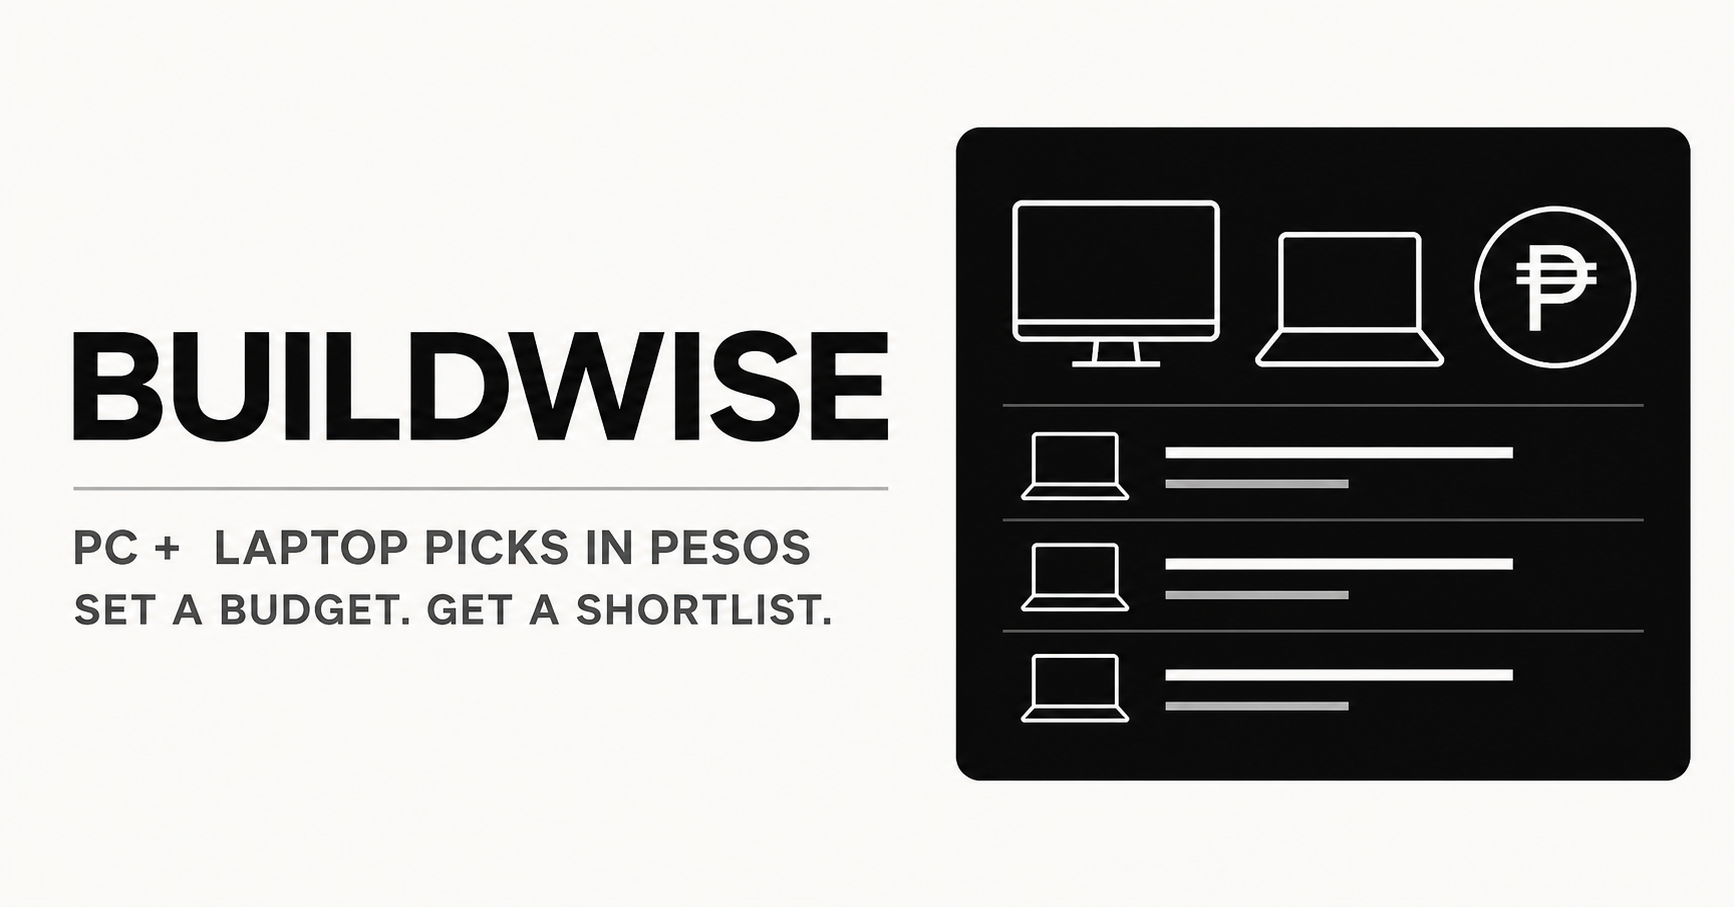
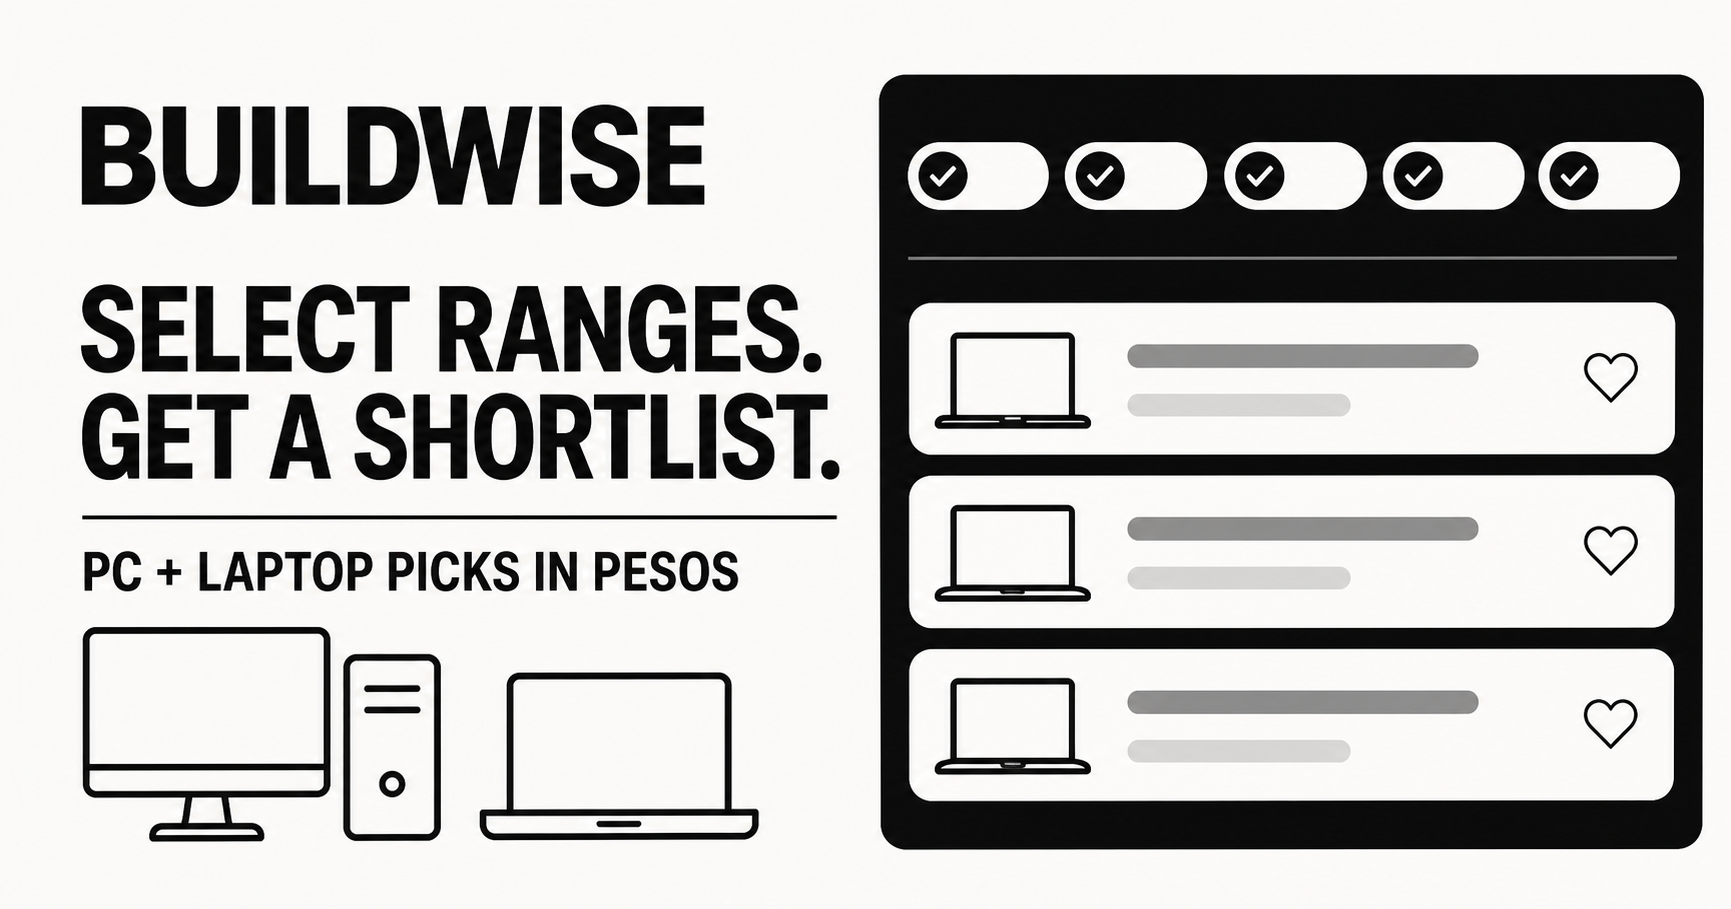
Improve typography and add budget range multi-select

diff --git a/app/globals.css b/app/globals.css
@@ -12,68 +12,74 @@ button { cursor:pointer; }
 .header { height:64px; padding:0 28px; border-bottom:1px solid var(--line); display:grid; grid-template-columns:1fr auto 1fr; align-items:center; }
 .brand { display:flex; align-items:center; gap:10px; }
 .brand>span { width:30px; height:30px; display:grid; place-items:center; background:var(--ink); color:var(--inverse); border-radius:7px; font-size:13px; font-weight:800; }
-.brand strong { font-size:12px; letter-spacing:.12em; }
-.header>p { margin:0; color:var(--muted); font-size:10px; }
-.theme { justify-self:end; height:38px; padding:0 9px 0 11px; border:1px solid var(--line); background:var(--panel); color:var(--ink); border-radius:9px; display:flex; align-items:center; gap:8px; font-size:10px; }
+.brand strong { font-size:14px; letter-spacing:.11em; }
+.header>p { margin:0; color:var(--muted); font-size:12px; }
+.theme { justify-self:end; height:40px; padding:0 10px 0 12px; border:1px solid var(--line); background:var(--panel); color:var(--ink); border-radius:9px; display:flex; align-items:center; gap:8px; font-size:12px; }
 .theme i { width:29px; height:16px; padding:2px; background:var(--soft); border-radius:10px; display:block; }
 .theme i b { width:12px; height:12px; background:var(--muted); border-radius:50%; display:block; transition:transform .2s; }
 .theme i.on b { transform:translateX(13px); background:var(--ink); }
 
-.layout { height:calc(100dvh - 64px); display:grid; grid-template-columns:320px minmax(0,1fr); }
-.sidebar { border-right:1px solid var(--line); padding:22px; display:flex; flex-direction:column; gap:14px; min-height:0; }
+.layout { height:calc(100dvh - 64px); display:grid; grid-template-columns:350px minmax(0,1fr); }
+.sidebar { border-right:1px solid var(--line); padding:18px 22px; display:flex; flex-direction:column; gap:10px; min-height:0; }
 .intro { display:flex; align-items:center; gap:10px; padding-bottom:2px; }
 .intro>svg { color:var(--muted); }
-.intro h1 { margin:0; font-size:18px; letter-spacing:-.03em; }
-.intro p { margin:3px 0 0; color:var(--muted); font-size:9px; }
-.control { border-top:1px solid var(--line); padding-top:14px; }
+.intro h1 { margin:0; font-size:20px; letter-spacing:-.03em; }
+.intro p { margin:3px 0 0; color:var(--muted); font-size:11px; }
+.control { border-top:1px solid var(--line); padding-top:10px; }
 .control.grow { flex:1; min-height:0; }
-.control>label { display:flex; align-items:center; gap:7px; margin-bottom:10px; color:var(--muted); font-size:9px; font-weight:650; text-transform:uppercase; letter-spacing:.07em; }
+.control>label { display:flex; align-items:center; gap:7px; margin-bottom:8px; color:var(--muted); font-size:11px; font-weight:650; text-transform:uppercase; letter-spacing:.06em; }
 .budget { height:50px; padding:0 13px; border:1px solid var(--line); background:var(--panel); border-radius:9px; display:flex; align-items:center; gap:6px; }
 .budget span { font-weight:700; }
 .budget input { width:100%; min-width:0; border:0; outline:0; background:transparent; color:var(--ink); font-size:24px; font-weight:720; letter-spacing:-.04em; appearance:textfield; }
 .budget input::-webkit-inner-spin-button { display:none; }
 .slider { width:100%; height:3px; margin:14px 0 3px; appearance:none; background:var(--line); }
 .slider::-webkit-slider-thumb { appearance:none; width:15px; height:15px; border-radius:50%; background:var(--ink); border:3px solid var(--panel); box-shadow:0 0 0 1px var(--ink); }
-.limits { display:flex; justify-content:space-between; color:var(--muted); font:8px var(--font-geist-mono); }
+.limits { display:flex; justify-content:space-between; color:var(--muted); font:10px var(--font-geist-mono); }
+.range-title { margin:9px 0 7px; display:flex; align-items:center; justify-content:space-between; gap:8px; }
+.range-title>span { display:flex; align-items:center; gap:6px; color:var(--ink); font-size:11px; font-weight:650; }
+.range-title small { color:var(--muted); font-size:9px; }
+.range-options { display:grid; grid-template-columns:repeat(3,1fr); gap:6px; }
+.range-options button { min-height:30px; padding:0 6px; border:1px solid var(--line); border-radius:7px; background:var(--panel); color:var(--muted); display:flex; align-items:center; justify-content:center; gap:4px; font-size:10px; white-space:nowrap; }
+.range-options button.active { background:var(--ink); color:var(--inverse); border-color:var(--ink); }
 .device { display:grid; grid-template-columns:1fr 1fr; gap:7px; }
-.device button { height:39px; border:1px solid var(--line); border-radius:8px; background:var(--panel); color:var(--muted); display:flex; align-items:center; justify-content:center; gap:7px; font-size:9px; }
+.device button { height:40px; border:1px solid var(--line); border-radius:8px; background:var(--panel); color:var(--muted); display:flex; align-items:center; justify-content:center; gap:7px; font-size:11px; }
 .device button.active { background:var(--ink); color:var(--inverse); border-color:var(--ink); }
 .uses { display:grid; gap:6px; }
-.uses button { height:46px; padding:0 10px; border:1px solid var(--line); border-radius:8px; background:transparent; color:var(--ink); display:flex; align-items:center; gap:9px; text-align:left; }
+.uses button { height:43px; padding:0 10px; border:1px solid var(--line); border-radius:8px; background:transparent; color:var(--ink); display:flex; align-items:center; gap:9px; text-align:left; }
 .uses button.active { background:var(--panel); border-color:var(--ink); }
 .uses button>svg:first-child { color:var(--muted); }
 .uses button.active>svg:first-child { color:var(--ink); }
 .uses button span { display:flex; flex-direction:column; gap:2px; }
-.uses button b { font-size:9px; }.uses button small { color:var(--muted); font-size:7px; }.uses button>svg:last-child { margin-left:auto; }
+.uses button b { font-size:11px; }.uses button small { color:var(--muted); font-size:9px; }.uses button>svg:last-child { margin-left:auto; }
 .shops { padding:10px; border:1px solid var(--line); border-radius:8px; display:flex; align-items:flex-start; gap:8px; color:var(--muted); }
-.shops span { font-size:7px; line-height:1.5; }
+.shops span { font-size:9px; line-height:1.45; }
 
 .results { padding:24px 30px 18px; min-width:0; min-height:0; display:flex; flex-direction:column; }
 .results-head { min-height:72px; display:flex; align-items:flex-start; justify-content:space-between; gap:20px; border-bottom:1px solid var(--line); padding-bottom:16px; }
-.live { display:inline-flex; align-items:center; gap:6px; color:var(--muted); font:8px var(--font-geist-mono); letter-spacing:.08em; }
+.live { display:inline-flex; align-items:center; gap:6px; color:var(--muted); font:10px var(--font-geist-mono); letter-spacing:.07em; }
 .live i { width:6px; height:6px; border-radius:50%; background:var(--ink); }
-.results-head h2 { margin:5px 0 3px; font-size:28px; letter-spacing:-.045em; }
-.results-head p { margin:0; color:var(--muted); font-size:9px; }
-.results-head>button { height:35px; padding:0 12px; border:1px solid var(--line); border-radius:8px; background:var(--panel); color:var(--ink); display:flex; align-items:center; gap:7px; font-size:9px; }
+.results-head h2 { margin:5px 0 3px; font-size:30px; letter-spacing:-.045em; }
+.results-head p { margin:0; color:var(--muted); font-size:12px; }
+.results-head>button { height:37px; padding:0 13px; border:1px solid var(--line); border-radius:8px; background:var(--panel); color:var(--ink); display:flex; align-items:center; gap:7px; font-size:11px; }
 
 .desktop-result,.laptop-list { flex:1; min-height:0; animation:fade .2s ease; }
 .build-summary { height:67px; display:flex; align-items:center; justify-content:space-between; gap:20px; }
-.build-summary>div:first-child { display:flex; align-items:center; gap:9px; }.build-summary>div:first-child span { padding:5px 8px; border-radius:6px; background:var(--soft); color:var(--muted); font-size:8px; }.build-summary>div:first-child b { font-size:9px; }
-.build-summary>div:last-child { display:flex; align-items:center; gap:9px; }.build-summary>div:last-child small { color:var(--muted); font-size:8px; }.build-summary strong { font-size:21px; letter-spacing:-.04em; }.build-summary>div:last-child span { padding:4px 7px; background:var(--soft); border-radius:6px; color:var(--muted); font-size:8px; }
+.build-summary>div:first-child { display:flex; align-items:center; gap:9px; }.build-summary>div:first-child span { padding:5px 8px; border-radius:6px; background:var(--soft); color:var(--muted); font-size:10px; }.build-summary>div:first-child b { font-size:11px; }
+.build-summary>div:last-child { display:flex; align-items:center; gap:9px; }.build-summary>div:last-child small { color:var(--muted); font-size:10px; }.build-summary strong { font-size:23px; letter-spacing:-.04em; }.build-summary>div:last-child span { padding:4px 7px; background:var(--soft); border-radius:6px; color:var(--muted); font-size:10px; }
 .parts { display:grid; grid-template-columns:1fr 1fr; gap:8px; }
 .parts article { min-height:67px; padding:10px 12px; border:1px solid var(--line); border-radius:9px; background:var(--panel); display:grid; grid-template-columns:34px minmax(0,1fr) auto; align-items:center; gap:10px; }
 .parts article>i { width:32px; height:32px; border-radius:7px; background:var(--soft); display:grid; place-items:center; color:var(--muted); }
-.parts article>div { min-width:0; }.parts small { color:var(--muted); font-size:7px; text-transform:uppercase; letter-spacing:.06em; }.parts h3 { margin:3px 0; font-size:9px; white-space:nowrap; overflow:hidden; text-overflow:ellipsis; }.parts article>div>span { color:var(--muted); font-size:7px; display:flex; align-items:center; gap:3px; }.parts article>strong { font-size:9px; white-space:nowrap; }
+.parts article>div { min-width:0; }.parts small { color:var(--muted); font-size:9px; text-transform:uppercase; letter-spacing:.05em; }.parts h3 { margin:3px 0; font-size:12px; white-space:nowrap; overflow:hidden; text-overflow:ellipsis; }.parts article>div>span { color:var(--muted); font-size:9px; display:flex; align-items:center; gap:3px; }.parts article>strong { font-size:11px; white-space:nowrap; }
 
 .laptop-list { padding-top:16px; display:flex; flex-direction:column; gap:10px; }
 .laptop-list>article { flex:1; min-height:96px; max-height:126px; padding:14px; border:1px solid var(--line); border-radius:10px; background:var(--panel); display:grid; grid-template-columns:92px minmax(0,1fr) auto; align-items:center; gap:16px; }
 .laptop-list>article.best { border-color:var(--ink); }
 .laptop-mark { height:100%; border-right:1px solid var(--line); display:flex; flex-direction:column; justify-content:center; gap:8px; color:var(--muted); }
-.laptop-mark span { font-size:8px; }.best .laptop-mark { color:var(--ink); }
-.laptop-copy { min-width:0; }.laptop-copy h3 { margin:0 0 5px; font-size:15px; letter-spacing:-.025em; }.laptop-copy p { margin:0 0 8px; color:var(--muted); font-size:8px; }.laptop-copy>span { display:flex; align-items:center; gap:4px; color:var(--muted); font-size:8px; }
-.laptop-price { text-align:right; display:flex; flex-direction:column; align-items:flex-end; gap:7px; }.laptop-price strong { font-size:16px; letter-spacing:-.03em; }.laptop-price>span { height:21px; padding:0 7px; border-radius:6px; background:var(--soft); color:var(--muted); display:flex; align-items:center; gap:4px; font-size:7px; }.laptop-price .fits { color:var(--ink); }
-.list-note { min-height:47px; padding:0 12px; border:1px dashed var(--line); border-radius:9px; display:flex; align-items:center; gap:8px; color:var(--muted); }.list-note span { display:flex; flex-direction:column; gap:2px; }.list-note b { color:var(--ink); font-size:8px; }.list-note small { font-size:7px; }
-.results footer { margin-top:auto; padding-top:10px; display:flex; justify-content:space-between; color:var(--muted); font-size:7px; }
+.laptop-mark span { font-size:10px; }.best .laptop-mark { color:var(--ink); }
+.laptop-copy { min-width:0; }.laptop-copy h3 { margin:0 0 5px; font-size:18px; letter-spacing:-.025em; }.laptop-copy p { margin:0 0 8px; color:var(--muted); font-size:11px; }.laptop-copy>span { display:flex; align-items:center; gap:4px; color:var(--muted); font-size:10px; }
+.laptop-price { text-align:right; display:flex; flex-direction:column; align-items:flex-end; gap:7px; }.laptop-price strong { font-size:19px; letter-spacing:-.03em; }.laptop-price>span { height:24px; padding:0 8px; border-radius:6px; background:var(--soft); color:var(--muted); display:flex; align-items:center; gap:4px; font-size:9px; }.laptop-price .fits { color:var(--ink); }
+.list-note { min-height:47px; padding:0 12px; border:1px dashed var(--line); border-radius:9px; display:flex; align-items:center; gap:8px; color:var(--muted); }.list-note span { display:flex; flex-direction:column; gap:2px; }.list-note b { color:var(--ink); font-size:10px; }.list-note small { font-size:9px; }
+.results footer { margin-top:auto; padding-top:10px; display:flex; justify-content:space-between; color:var(--muted); font-size:9px; }
 @keyframes fade { from { opacity:0; transform:translateY(2px); } to { opacity:1; transform:none; } }
 
 @media (max-height:720px) {

diff --git a/app/page.tsx b/app/page.tsx
@@ -4,7 +4,7 @@ import { useMemo, useState } from "react";
 import {
   Box, BriefcaseBusiness, Check, CircuitBoard, Clapperboard, Copy, Cpu,
   DraftingCompass, Fan, Gamepad2, HardDrive, Laptop, MemoryStick, Monitor,
-  Moon, PhilippinePeso, SlidersHorizontal, Store, Sun, Zap,
+  ListFilter, Moon, PhilippinePeso, SlidersHorizontal, Store, Sun, Zap,
 } from "lucide-react";
 import type { LucideIcon } from "lucide-react";
 
@@ -23,6 +23,14 @@ const purposes: { id: UseCase; label: string; note: string; icon: LucideIcon }[]
   { id: "architecture", label: "Architecture", note: "CAD + 3D", icon: DraftingCompass },
   { id: "editing", label: "Content", note: "Edit + render", icon: Clapperboard },
   { id: "work", label: "Work & study", note: "Everyday", icon: BriefcaseBusiness },
+];
+
+const budgetRanges = [
+  { id: "entry", label: "₱30–50K", min: 30000, max: 50000 },
+  { id: "value", label: "₱50–80K", min: 50000, max: 80000 },
+  { id: "mid", label: "₱80–120K", min: 80000, max: 120000 },
+  { id: "high", label: "₱120–180K", min: 120000, max: 180000 },
+  { id: "premium", label: "₱180–250K", min: 180000, max: 250000 },
 ];
 
 const starter = [
@@ -119,15 +127,30 @@ export default function Home() {
   const [useCase, setUseCase] = useState<UseCase>("architecture");
   const [dark, setDark] = useState(true);
   const [copied, setCopied] = useState(false);
+  const [selectedRanges, setSelectedRanges] = useState<string[]>(["value"]);
 
   const selectedBuild = useMemo(() => [...builds[useCase]].reverse().find((item) => totalOf(item) <= budget) ?? builds[useCase][0], [budget, useCase]);
-  const shortlist = useMemo(() => [...laptops[useCase]].sort((a, b) => {
+  const shortlist = useMemo(() => {
+    const activeRanges = budgetRanges.filter((range) => selectedRanges.includes(range.id));
+    const inRanges = activeRanges.length
+      ? laptops[useCase].filter((item) => activeRanges.some((range) => item.price >= range.min && item.price <= range.max))
+      : laptops[useCase];
+    const ranked = [...inRanges].sort((a, b) => {
     const aOver = a.price > budget ? 1 : 0;
     const bOver = b.price > budget ? 1 : 0;
     if (aOver !== bOver) return aOver - bOver;
     return Math.abs(budget - a.price) - Math.abs(budget - b.price);
-  }).slice(0, 3), [budget, useCase]);
+    });
+    const fillers = laptops[useCase]
+      .filter((item) => !ranked.some((rankedItem) => rankedItem.name === item.name))
+      .sort((a, b) => Math.abs(budget - a.price) - Math.abs(budget - b.price));
+    return [...ranked, ...fillers].slice(0, 3);
+  }, [budget, selectedRanges, useCase]);
   const buildTotal = totalOf(selectedBuild);
+
+  const toggleRange = (id: string) => {
+    setSelectedRanges((current) => current.includes(id) ? current.filter((item) => item !== id) : [...current, id]);
+  };
 
   const copyResults = async () => {
     const text = device === "desktop"
@@ -155,6 +178,13 @@ export default function Home() {
             <div className="budget"><span>₱</span><input id="budget" type="number" min="30000" max="250000" step="1000" value={budget} onChange={(event) => setBudget(Math.max(30000, Math.min(250000, Number(event.target.value) || 30000)))} /></div>
             <input className="slider" type="range" min="30000" max="250000" step="1000" value={budget} onChange={(event) => setBudget(Number(event.target.value))} aria-label="Adjust budget" />
             <div className="limits"><span>₱30K</span><span>₱250K</span></div>
+            <div className="range-title"><span><ListFilter size={14} /> Price ranges</span><small>Multi-select · laptop filter</small></div>
+            <div className="range-options" role="group" aria-label="Select one or more laptop price ranges">
+              {budgetRanges.map((range) => {
+                const active = selectedRanges.includes(range.id);
+                return <button key={range.id} className={active ? "active" : ""} aria-pressed={active} onClick={() => toggleRange(range.id)}>{active && <Check size={12} />}{range.label}</button>;
+              })}
+            </div>
           </section>
 
           <section className="control">
@@ -172,7 +202,7 @@ export default function Home() {
 
         <section className="results" aria-live="polite">
           <div className="results-head">
-            <div><span className="live"><i /> UPDATED LIVE</span><h2>{device === "desktop" ? selectedBuild.label : "Laptop shortlist"}</h2><p>{device === "desktop" ? selectedBuild.note : `Three options closest to your ${peso.format(budget)} budget.`}</p></div>
+            <div><span className="live"><i /> UPDATED LIVE</span><h2>{device === "desktop" ? selectedBuild.label : "Laptop shortlist"}</h2><p>{device === "desktop" ? selectedBuild.note : selectedRanges.length ? `Three options from ${selectedRanges.length} selected price ${selectedRanges.length === 1 ? "range" : "ranges"}.` : `Three options closest to your ${peso.format(budget)} budget.`}</p></div>
             <button onClick={copyResults}><Copy size={15} />{copied ? "Copied" : "Copy"}</button>
           </div>
 

diff --git a/app/layout.tsx b/app/layout.tsx
@@ -8,7 +8,7 @@ const geistMono = Geist_Mono({ variable: "--font-geist-mono", subsets: ["latin"]
 export const metadata: Metadata = {
   metadataBase: new URL("https://buildwise-ph.andrewvillaloncodex.chatgpt.site"),
   title: "Buildwise — Your Budget, Better Built",
-  description: "Get a compatible PC build or a three-model laptop shortlist for gaming, architecture, content creation, work, and study—matched to your Philippine peso budget.",
+  description: "Set an exact peso budget or multiple price ranges, then get a compatible PC build or a three-model laptop shortlist for your use case.",
   openGraph: {
     title: "Buildwise — Your Budget, Better Built",
     description: "Set a peso budget. Get a current PC build or laptop shortlist.",

diff --git a/README.md b/README.md
@@ -1,6 +1,6 @@
 # Buildwise
 
-A simple one-screen Philippine PC and laptop budget builder. Set a budget from ₱30,000 to ₱250,000, choose a use case, and get either a compatible desktop build or a three-model laptop shortlist using current indicative local prices.
+A simple one-screen Philippine PC and laptop budget builder. Set an exact budget from ₱30,000 to ₱250,000 or multi-select several price ranges, choose a use case, and get either a compatible desktop build or a three-model laptop shortlist using current indicative local prices.
 
 ## Run locally
 
